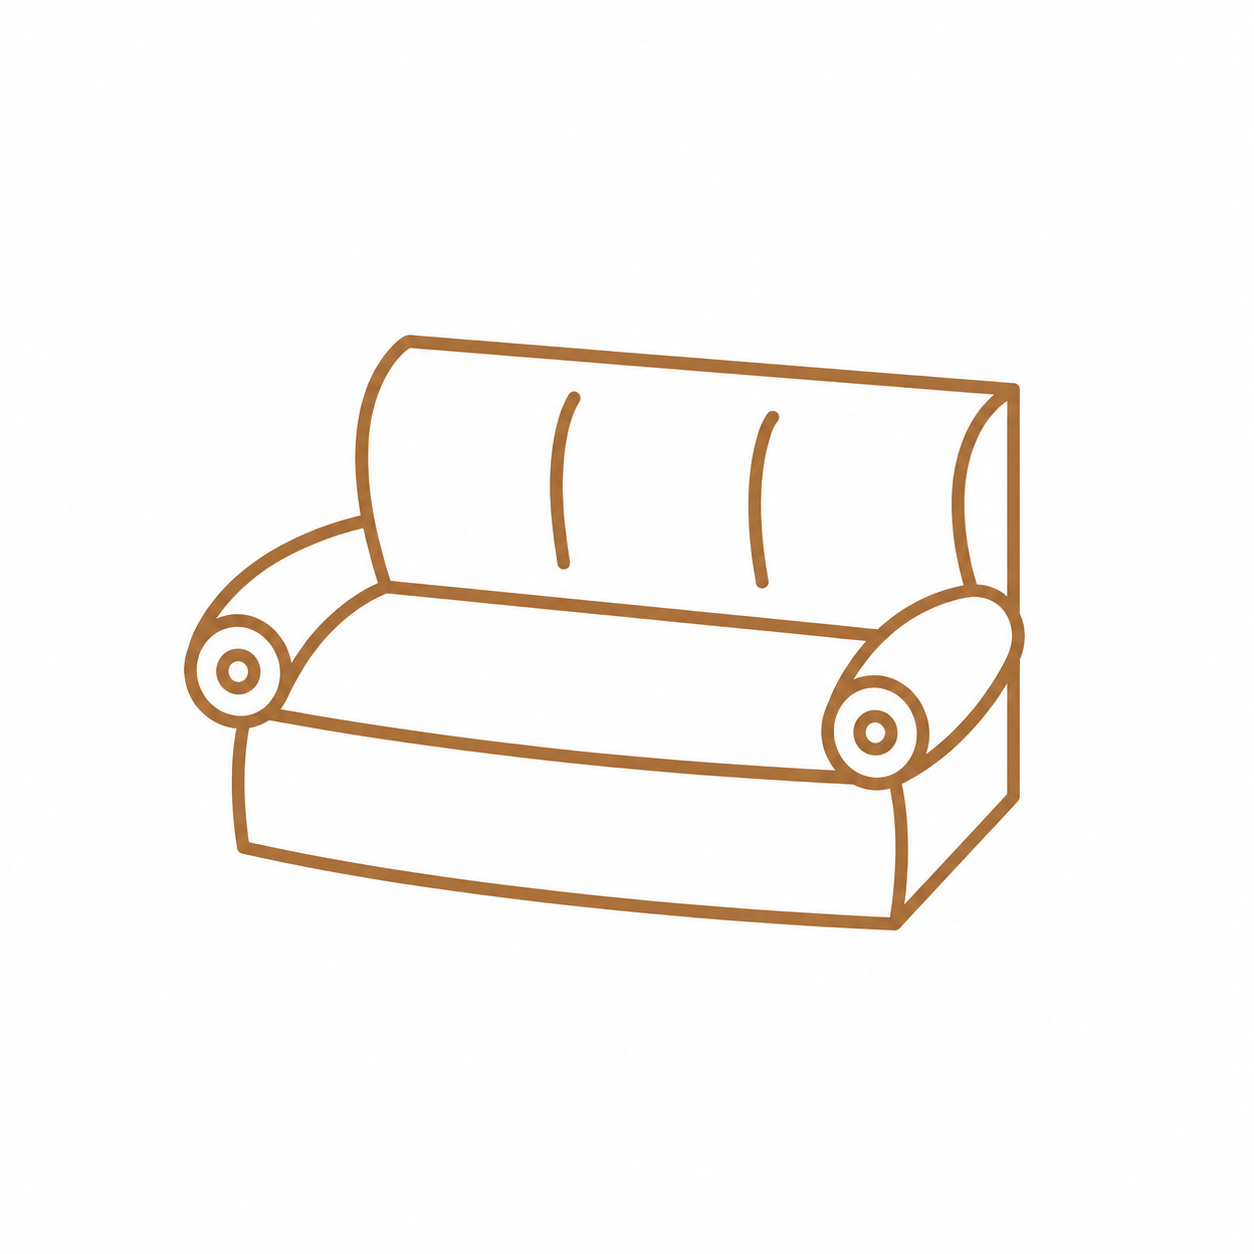
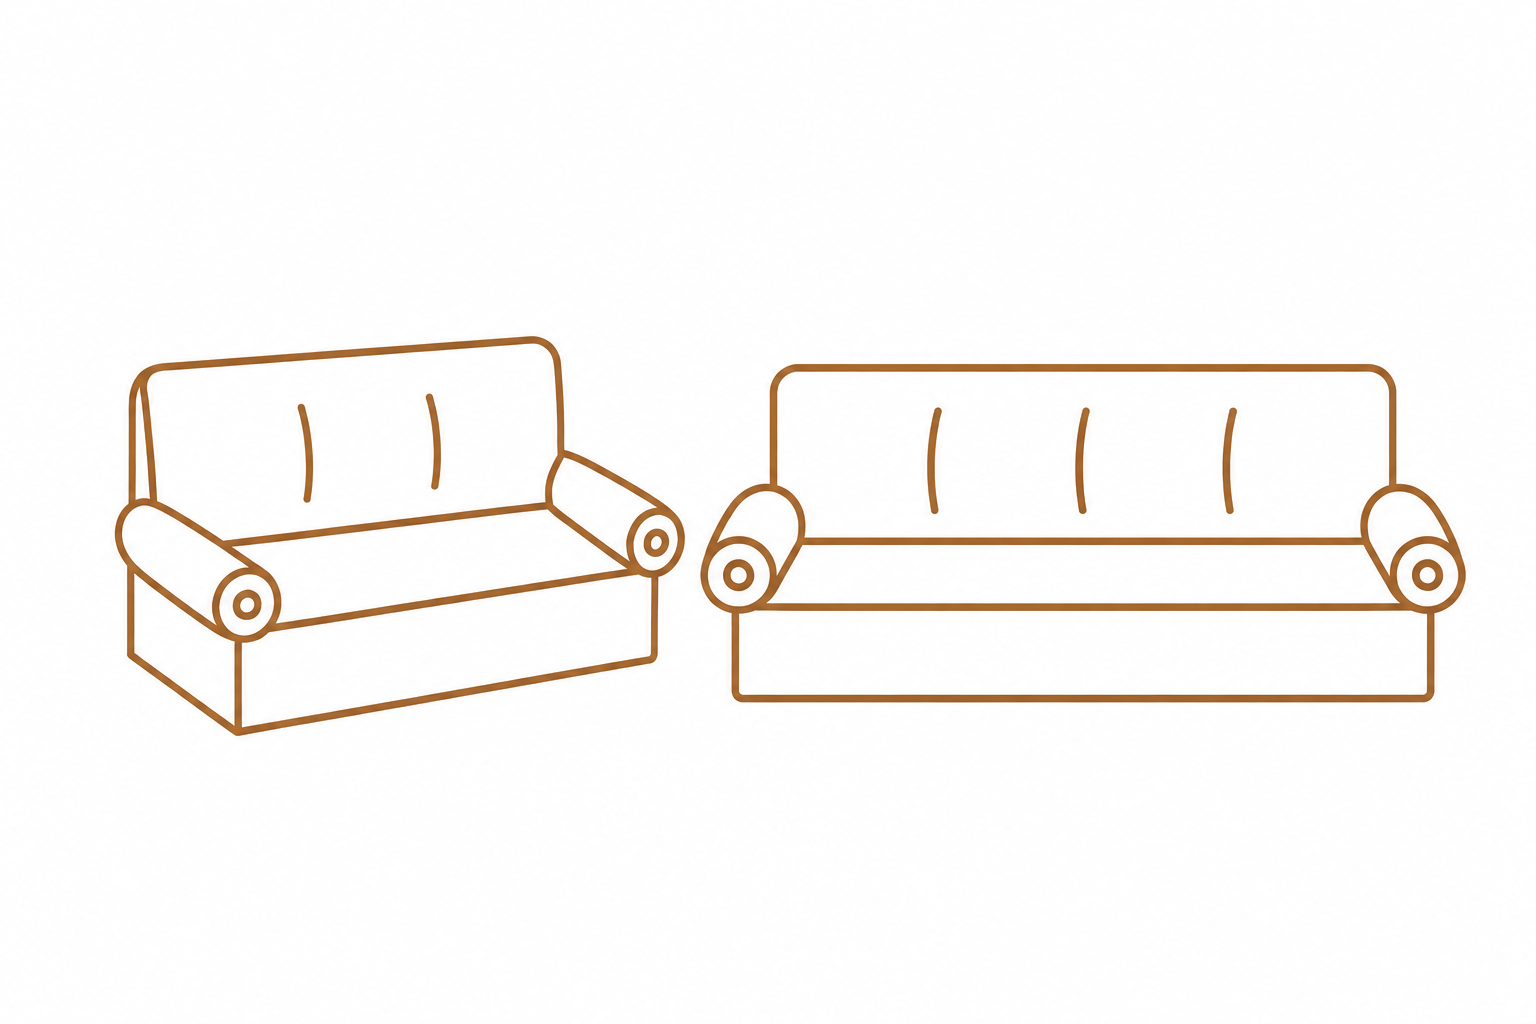
cxvxc

Changed region(s): [[0.0622, 0.25, 0.9641, 0.75]]

diff --git a/src/pages/ProductPage.tsx b/src/pages/ProductPage.tsx
@@ -884,7 +884,7 @@ const IconVisual = ({ icon, alt, className }: { icon?: string; alt: string; clas
 };
 
 const SofaSizeIcon = ({ className }: { className: string }) => (
-  <img src="/sofa-size-icon.png" alt="Sofa size" className={className} />
+  <img src="/sofa-size-icon.png?v=2" alt="Sofa size" className={className} />
 );
 
 const REVIEW_SECTION_ID = 'reviews';
